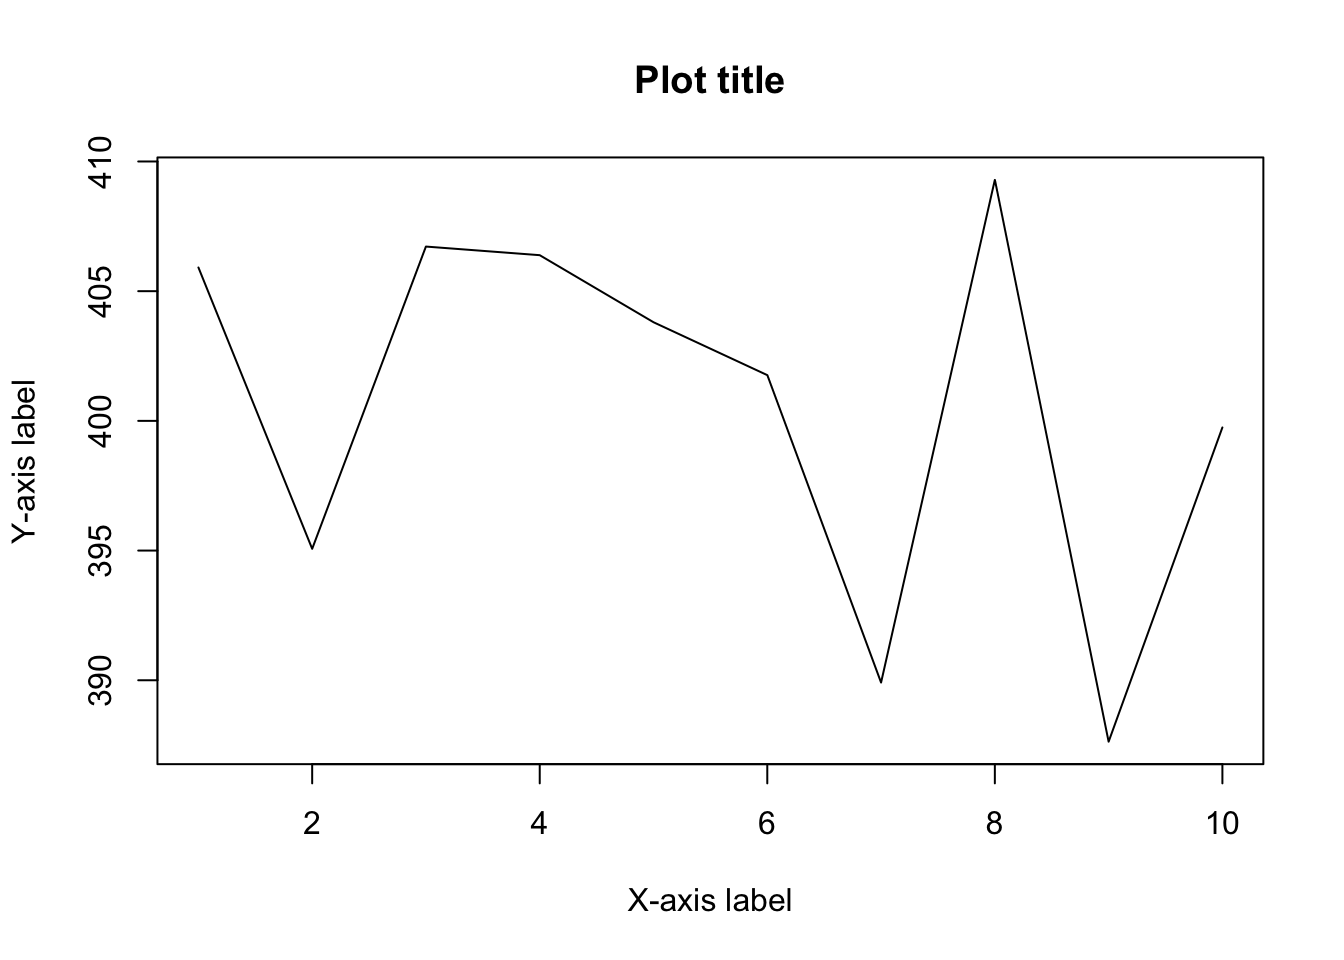
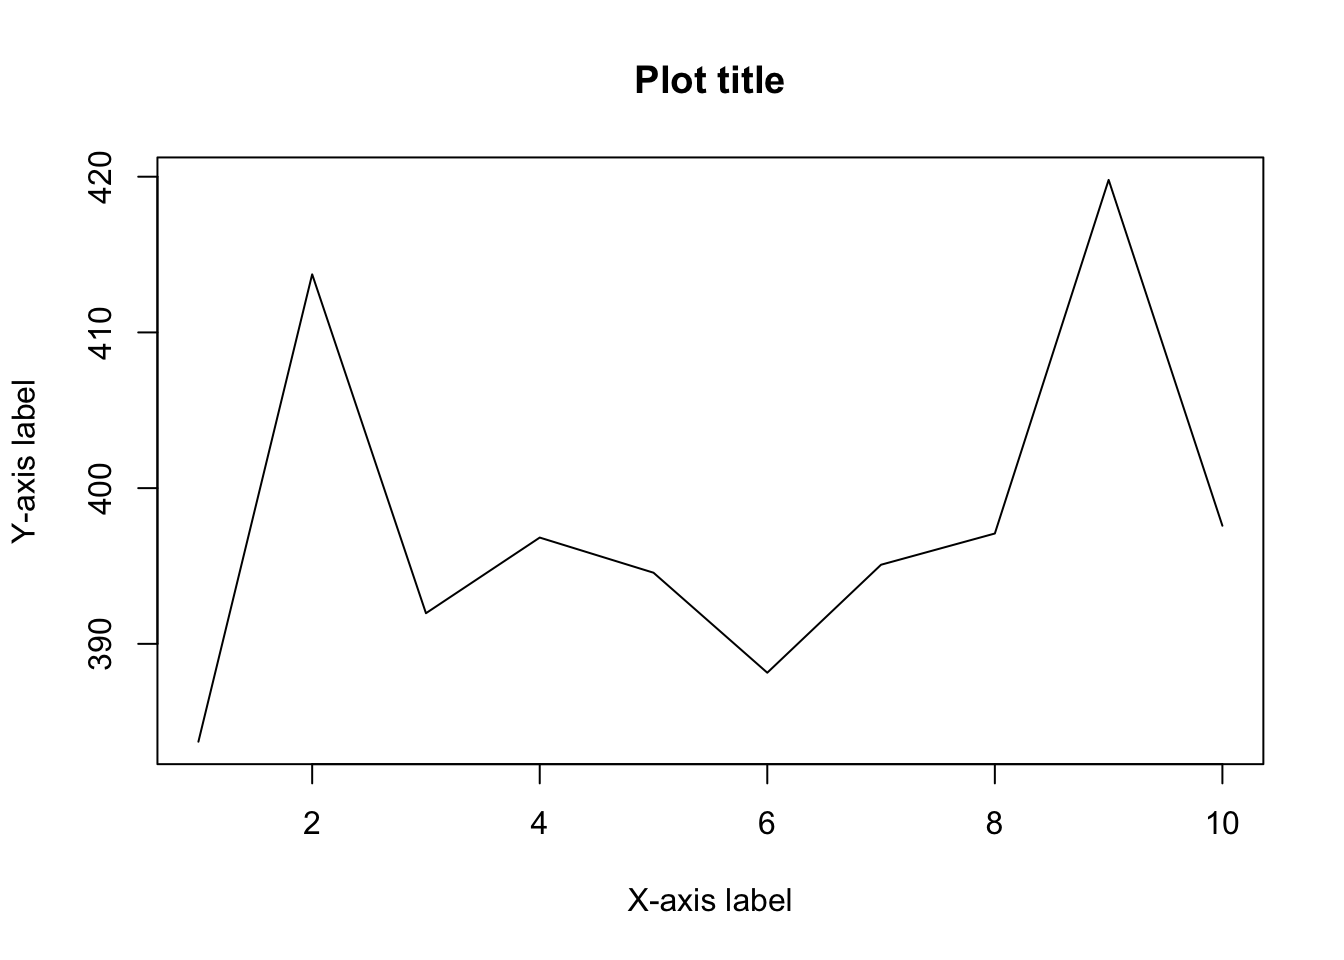
edit post

diff --git a/content/blog/how-to-install-r-and-rstudio.html b/content/blog/how-to-install-r-and-rstudio.html
@@ -96,7 +96,7 @@ output:
 <img src="/blog/how-to-install-r-and-rstudio_files/environment%20pane%20in%20RStudio2.png" alt="Environment pane in RStudio" />
 <p class="caption">Environment pane in RStudio</p>
 </div>
-<p>This means that you can now perform any computations with <code>a</code>, such that if you execute <code>a + 1</code>, RStudio will render <code>2</code> in the console. In this pane you can also see a tab with a history of the code executed and a button to import a dataset (more on <a href="/blog/how-to-import-an-excel-file-in-rstudio/">importing a dataset in RStudio here</a>).</p>
+<p>This means that you can now perform any computations with <code>a</code>, such that if you execute <code>a + 1</code>, RStudio will render <code>2</code> in the console. In this pane you can also see a tab with a history of the code executed and a button to import a dataset (more on <a href="/blog/how-to-import-an-excel-file-in-rstudio/">importing a dataset in RStudio</a>).</p>
 <p>The last pane (blue) is where you will find everything else such as your files, the plots, the packages, the help documentation, etc. I discuss about the Files tab in more details <a href="/blog/how-to-import-an-excel-file-in-rstudio/">here</a> so let’s discuss about the other tabs:</p>
 <ul>
 <li>Plot: where you will see the rendered plots. For instance, run <code>plot(1:10)</code> and you should see it in this tab,</li>
@@ -112,23 +112,24 @@ output:
 <p>Compute <span class="math inline">\(5*5\)</span></p>
 <pre class="r"><code>5 * 5</code></pre>
 <pre><code>## [1] 25</code></pre>
-<p>Compute <span class="math inline">\(\frac{1}{\sqrt{50\pi}}\, e^{-\frac{(10 - 11)^2}{50}}\)</span>. As you can see, some values like <span class="math inline">\(\pi\)</span> are stored by default so you do not need to specify its value.</p>
+<p>Compute <span class="math inline">\(\frac{1}{\sqrt{50\pi}}\, e^{-\frac{(10 - 11)^2}{50}}\)</span></p>
 <pre class="r"><code>1 / sqrt(50 * pi) * exp(-(10 - 11)^2 / 50)</code></pre>
 <pre><code>## [1] 0.07820854</code></pre>
+<p>As you can see, some values like <span class="math inline">\(\pi\)</span> are stored by default so you do not need to specify its value. Note that RStudio is case sensitive, but not space sensitive. This means that <code>pi</code> is different than <code>Pi</code> but <code>5*5</code> gives the same result than <code>5 * 5</code>.</p>
 </div>
 <div id="comments" class="section level2">
 <h2>Comments</h2>
 <p>To add comments in your code, use <code>#</code> before the code:</p>
 <pre class="r"><code># A comment
-#Another comment
-1+1</code></pre>
+# Another comment
+1 + 1</code></pre>
 <pre><code>## [1] 2</code></pre>
 </div>
 <div id="store-and-print-values" class="section level2">
 <h2>Store and print values</h2>
 <p>Note that in order to store a value inside an object, using <code>=</code> or <code>&lt;-</code> is equivalent. I however recommend using <code>&lt;-</code> to follow the guidelines of R programming. You can name your objects (A and B in our case) as you like. However, it is recommended to use short and concise names (as you will most likely type them several times) and avoid special characters.</p>
 <pre class="r"><code>A &lt;- 5
-B = 6</code></pre>
+B &lt;- 6</code></pre>
 <p>When storing values, RStudio does not display it on the console. To store a value AND print it in the console, use:</p>
 <pre class="r"><code>(A &lt;- 5)</code></pre>
 <pre><code>## [1] 5</code></pre>
@@ -140,12 +141,14 @@ A</code></pre>
 <div id="vectors" class="section level2">
 <h2>Vectors</h2>
 <p>It is also possible to store more than one value inside an object via the function <code>c()</code> (c stands for combine).</p>
-<pre class="r"><code>A &lt;- c(1/2, -1, 0)</code></pre>
+<pre class="r"><code>A &lt;- c(1 / 2, -1, 0)
+A</code></pre>
+<pre><code>## [1]  0.5 -1.0  0.0</code></pre>
 </div>
 <div id="matrices" class="section level2">
 <h2>Matrices</h2>
 <p>Or create a matrix via <code>matrix()</code> (help about this function via <code>?matrix</code>):</p>
-<pre class="r"><code>my_mat &lt;- matrix(c(-1,2,0,3), ncol = 2, nrow = 2)
+<pre class="r"><code>my_mat &lt;- matrix(c(-1, 2, 0, 3), ncol = 2, nrow = 2)
 my_mat</code></pre>
 <pre><code>##      [,1] [,2]
 ## [1,]   -1    0
@@ -157,11 +160,11 @@ my_mat</code></pre>
 <pre class="r"><code>my_vec &lt;- rnorm(10, mean = 400, sd = 10)
 # Display only the first 5 values:
 head(my_vec, 5)</code></pre>
-<pre><code>## [1] 405.9131 395.0670 406.7202 406.3878 403.8031</code></pre>
+<pre><code>## [1] 383.7166 413.7291 391.9667 396.8258 394.5684</code></pre>
 <pre class="r"><code># Display only the last 5 values:
 tail(my_vec, 5)</code></pre>
-<pre><code>## [1] 401.7635 389.9113 409.2894 387.6317 399.7459</code></pre>
-<p>You will most likely have different values than mines due to the fact that they are randomly generated. If you want to make sure to have always the same random values, use <code>set.seed()</code> (with any numeric inside the brackets). For instance, with the following code, you should have the exact same values:</p>
+<pre><code>## [1] 388.1462 395.0808 397.0864 419.7943 397.5866</code></pre>
+<p>You will have different values than mines due to the fact that they are randomly generated. If you want to make sure to have always the same random values, use <code>set.seed()</code> (with any numeric inside the brackets). For instance, with the following code, you should have the exact same values, no matter where and when you run it:</p>
 <pre class="r"><code>set.seed(42)
 rnorm(3, mean = 10, sd = 2)</code></pre>
 <pre><code>## [1] 12.741917  8.870604 10.726257</code></pre>
@@ -169,10 +172,11 @@ rnorm(3, mean = 10, sd = 2)</code></pre>
 <div id="plot" class="section level2">
 <h2>Plot</h2>
 <pre class="r"><code>plot(my_vec,
-     type = &quot;l&quot;, # &quot;l&quot; stands for line
-     main = &quot;Plot title&quot;,
-     ylab = &quot;Y-axis label&quot;,
-     xlab = &quot;X-axis label&quot;) </code></pre>
+  type = &quot;l&quot;, # &quot;l&quot; stands for line
+  main = &quot;Plot title&quot;,
+  ylab = &quot;Y-axis label&quot;,
+  xlab = &quot;X-axis label&quot;
+)</code></pre>
 <p><img src="/blog/how-to-install-r-and-rstudio_files/figure-html/unnamed-chunk-11-1.png" width="672" /></p>
 <p>This is only a very limited introduction to the possibilities of RStudio. If you want to learn more, I recommend that you read other <a href="/tags/R/">articles related to R</a>.</p>
 <p>As always, if you find a mistake/bug or if you have any questions do not hesitate to let me know in the comment section below, <a href="https://github.com/AntoineSoetewey/statsandr/issues" target="_blank" rel="noopener">raise an issue on GitHub</a> or <a href="/contact/">contact me</a>.</p>

diff --git a/public/blog/how-to-install-r-and-rstudio/index.html b/public/blog/how-to-install-r-and-rstudio/index.html
@@ -226,7 +226,7 @@
 <img src="/blog/how-to-install-r-and-rstudio_files/environment%20pane%20in%20RStudio2.png" alt="Environment pane in RStudio" />
 <p class="caption">Environment pane in RStudio</p>
 </div>
-<p>This means that you can now perform any computations with <code>a</code>, such that if you execute <code>a + 1</code>, RStudio will render <code>2</code> in the console. In this pane you can also see a tab with a history of the code executed and a button to import a dataset (more on <a href="/blog/how-to-import-an-excel-file-in-rstudio/">importing a dataset in RStudio here</a>).</p>
+<p>This means that you can now perform any computations with <code>a</code>, such that if you execute <code>a + 1</code>, RStudio will render <code>2</code> in the console. In this pane you can also see a tab with a history of the code executed and a button to import a dataset (more on <a href="/blog/how-to-import-an-excel-file-in-rstudio/">importing a dataset in RStudio</a>).</p>
 <p>The last pane (blue) is where you will find everything else such as your files, the plots, the packages, the help documentation, etc. I discuss about the Files tab in more details <a href="/blog/how-to-import-an-excel-file-in-rstudio/">here</a> so let’s discuss about the other tabs:</p>
 <ul>
 <li>Plot: where you will see the rendered plots. For instance, run <code>plot(1:10)</code> and you should see it in this tab,</li>
@@ -242,23 +242,24 @@
 <p>Compute <span class="math inline">\(5*5\)</span></p>
 <pre class="r"><code>5 * 5</code></pre>
 <pre><code>## [1] 25</code></pre>
-<p>Compute <span class="math inline">\(\frac{1}{\sqrt{50\pi}}\, e^{-\frac{(10 - 11)^2}{50}}\)</span>. As you can see, some values like <span class="math inline">\(\pi\)</span> are stored by default so you do not need to specify its value.</p>
+<p>Compute <span class="math inline">\(\frac{1}{\sqrt{50\pi}}\, e^{-\frac{(10 - 11)^2}{50}}\)</span></p>
 <pre class="r"><code>1 / sqrt(50 * pi) * exp(-(10 - 11)^2 / 50)</code></pre>
 <pre><code>## [1] 0.07820854</code></pre>
+<p>As you can see, some values like <span class="math inline">\(\pi\)</span> are stored by default so you do not need to specify its value. Note that RStudio is case sensitive, but not space sensitive. This means that <code>pi</code> is different than <code>Pi</code> but <code>5*5</code> gives the same result than <code>5 * 5</code>.</p>
 </div>
 <div id="comments" class="section level2">
 <h2>Comments</h2>
 <p>To add comments in your code, use <code>#</code> before the code:</p>
 <pre class="r"><code># A comment
-#Another comment
-1+1</code></pre>
+# Another comment
+1 + 1</code></pre>
 <pre><code>## [1] 2</code></pre>
 </div>
 <div id="store-and-print-values" class="section level2">
 <h2>Store and print values</h2>
 <p>Note that in order to store a value inside an object, using <code>=</code> or <code>&lt;-</code> is equivalent. I however recommend using <code>&lt;-</code> to follow the guidelines of R programming. You can name your objects (A and B in our case) as you like. However, it is recommended to use short and concise names (as you will most likely type them several times) and avoid special characters.</p>
 <pre class="r"><code>A &lt;- 5
-B = 6</code></pre>
+B &lt;- 6</code></pre>
 <p>When storing values, RStudio does not display it on the console. To store a value AND print it in the console, use:</p>
 <pre class="r"><code>(A &lt;- 5)</code></pre>
 <pre><code>## [1] 5</code></pre>
@@ -270,12 +271,14 @@ A</code></pre>
 <div id="vectors" class="section level2">
 <h2>Vectors</h2>
 <p>It is also possible to store more than one value inside an object via the function <code>c()</code> (c stands for combine).</p>
-<pre class="r"><code>A &lt;- c(1/2, -1, 0)</code></pre>
+<pre class="r"><code>A &lt;- c(1 / 2, -1, 0)
+A</code></pre>
+<pre><code>## [1]  0.5 -1.0  0.0</code></pre>
 </div>
 <div id="matrices" class="section level2">
 <h2>Matrices</h2>
 <p>Or create a matrix via <code>matrix()</code> (help about this function via <code>?matrix</code>):</p>
-<pre class="r"><code>my_mat &lt;- matrix(c(-1,2,0,3), ncol = 2, nrow = 2)
+<pre class="r"><code>my_mat &lt;- matrix(c(-1, 2, 0, 3), ncol = 2, nrow = 2)
 my_mat</code></pre>
 <pre><code>##      [,1] [,2]
 ## [1,]   -1    0
@@ -287,11 +290,11 @@ my_mat</code></pre>
 <pre class="r"><code>my_vec &lt;- rnorm(10, mean = 400, sd = 10)
 # Display only the first 5 values:
 head(my_vec, 5)</code></pre>
-<pre><code>## [1] 405.9131 395.0670 406.7202 406.3878 403.8031</code></pre>
+<pre><code>## [1] 383.7166 413.7291 391.9667 396.8258 394.5684</code></pre>
 <pre class="r"><code># Display only the last 5 values:
 tail(my_vec, 5)</code></pre>
-<pre><code>## [1] 401.7635 389.9113 409.2894 387.6317 399.7459</code></pre>
-<p>You will most likely have different values than mines due to the fact that they are randomly generated. If you want to make sure to have always the same random values, use <code>set.seed()</code> (with any numeric inside the brackets). For instance, with the following code, you should have the exact same values:</p>
+<pre><code>## [1] 388.1462 395.0808 397.0864 419.7943 397.5866</code></pre>
+<p>You will have different values than mines due to the fact that they are randomly generated. If you want to make sure to have always the same random values, use <code>set.seed()</code> (with any numeric inside the brackets). For instance, with the following code, you should have the exact same values, no matter where and when you run it:</p>
 <pre class="r"><code>set.seed(42)
 rnorm(3, mean = 10, sd = 2)</code></pre>
 <pre><code>## [1] 12.741917  8.870604 10.726257</code></pre>
@@ -299,10 +302,11 @@ rnorm(3, mean = 10, sd = 2)</code></pre>
 <div id="plot" class="section level2">
 <h2>Plot</h2>
 <pre class="r"><code>plot(my_vec,
-     type = &quot;l&quot;, # &quot;l&quot; stands for line
-     main = &quot;Plot title&quot;,
-     ylab = &quot;Y-axis label&quot;,
-     xlab = &quot;X-axis label&quot;) </code></pre>
+  type = &quot;l&quot;, # &quot;l&quot; stands for line
+  main = &quot;Plot title&quot;,
+  ylab = &quot;Y-axis label&quot;,
+  xlab = &quot;X-axis label&quot;
+)</code></pre>
 <p><img src="/blog/how-to-install-r-and-rstudio_files/figure-html/unnamed-chunk-11-1.png" width="672" /></p>
 <p>This is only a very limited introduction to the possibilities of RStudio. If you want to learn more, I recommend that you read other <a href="/tags/R/">articles related to R</a>.</p>
 <p>As always, if you find a mistake/bug or if you have any questions do not hesitate to let me know in the comment section below, <a href="https://github.com/AntoineSoetewey/statsandr/issues" target="_blank" rel="noopener">raise an issue on GitHub</a> or <a href="/contact/">contact me</a>.</p>

diff --git a/content/blog/how-to-import-an-excel-file-in-rstudio.html b/content/blog/how-to-import-an-excel-file-in-rstudio.html
@@ -30,7 +30,7 @@ draft: true
 
 <div id="introduction" class="section level1">
 <h1>Introduction</h1>
-<p>As we have seen in this article on <a href="/blog/how-to-install-r-and-rstudio">how to install R and RStudio</a>, R is useful for several computational tasks and basic statistical analyses. However, it would not be so powerful and useful without the possibility to import datasets into R. As you will most likely use R with your own data, being able to import it into R is crucial for any user.</p>
+<p>As we have seen in this article on <a href="/blog/how-to-install-r-and-rstudio">how to install R and RStudio</a>, R is useful for many kind of computational tasks and statistical analyses. However, it would not be so powerful and useful without the possibility to import datasets into R. As you will most likely use R with your own data, being able to import it into R is crucial for any user.</p>
 <p>In this article I present two different ways to import an Excel file; one through the code and one in a more user-friendly way. I also discuss about the main advantages and inconvenients of both methods. Note that:</p>
 <ul>
 <li>How to import a dataset often depends on the format of the file (Excel, CSV, text, SPSS, Stata, etc.). I focus here only on Excel files as it is the most common type of file for a dataset,</li>

diff --git a/public/blog/how-to-import-an-excel-file-in-rstudio/index.html b/public/blog/how-to-import-an-excel-file-in-rstudio/index.html
@@ -160,7 +160,7 @@
 
 <div id="introduction" class="section level1">
 <h1>Introduction</h1>
-<p>As we have seen in this article on <a href="/blog/how-to-install-r-and-rstudio">how to install R and RStudio</a>, R is useful for several computational tasks and basic statistical analyses. However, it would not be so powerful and useful without the possibility to import datasets into R. As you will most likely use R with your own data, being able to import it into R is crucial for any user.</p>
+<p>As we have seen in this article on <a href="/blog/how-to-install-r-and-rstudio">how to install R and RStudio</a>, R is useful for many kind of computational tasks and statistical analyses. However, it would not be so powerful and useful without the possibility to import datasets into R. As you will most likely use R with your own data, being able to import it into R is crucial for any user.</p>
 <p>In this article I present two different ways to import an Excel file; one through the code and one in a more user-friendly way. I also discuss about the main advantages and inconvenients of both methods. Note that:</p>
 <ul>
 <li>How to import a dataset often depends on the format of the file (Excel, CSV, text, SPSS, Stata, etc.). I focus here only on Excel files as it is the most common type of file for a dataset,</li>
